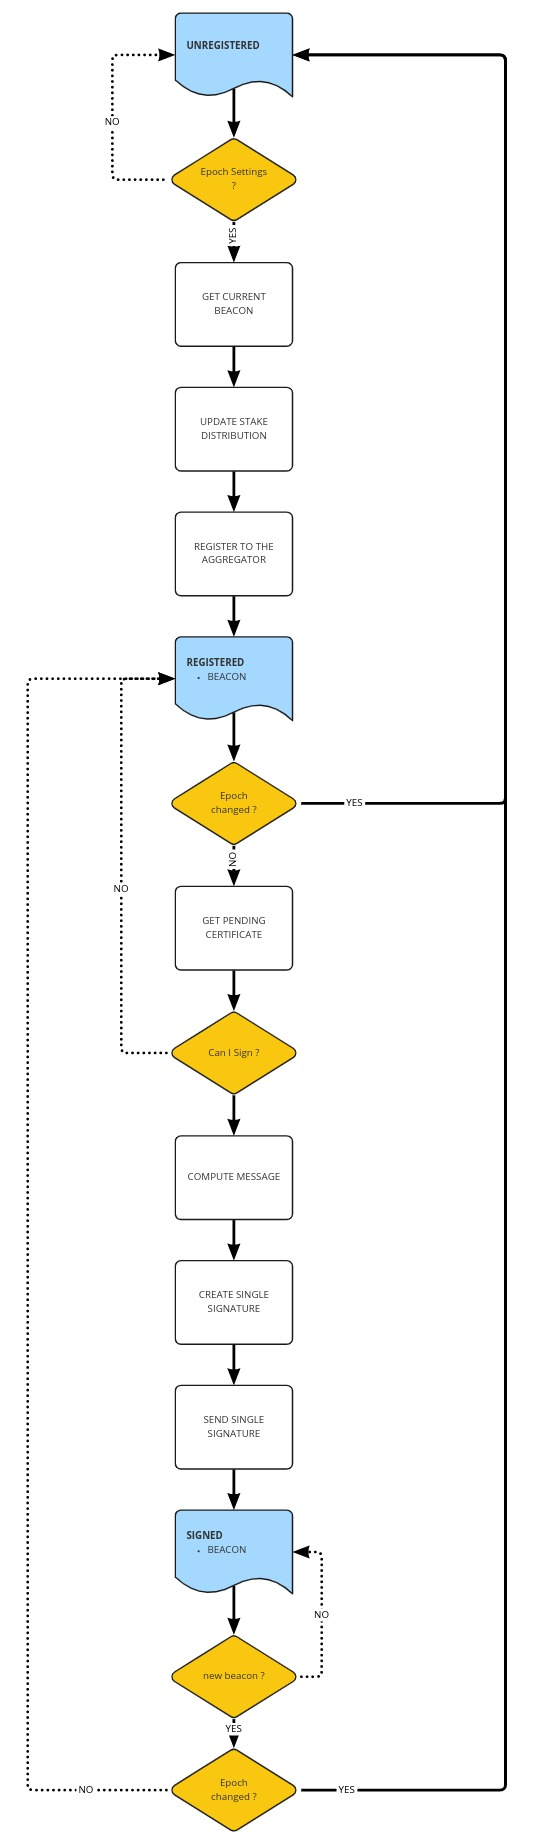
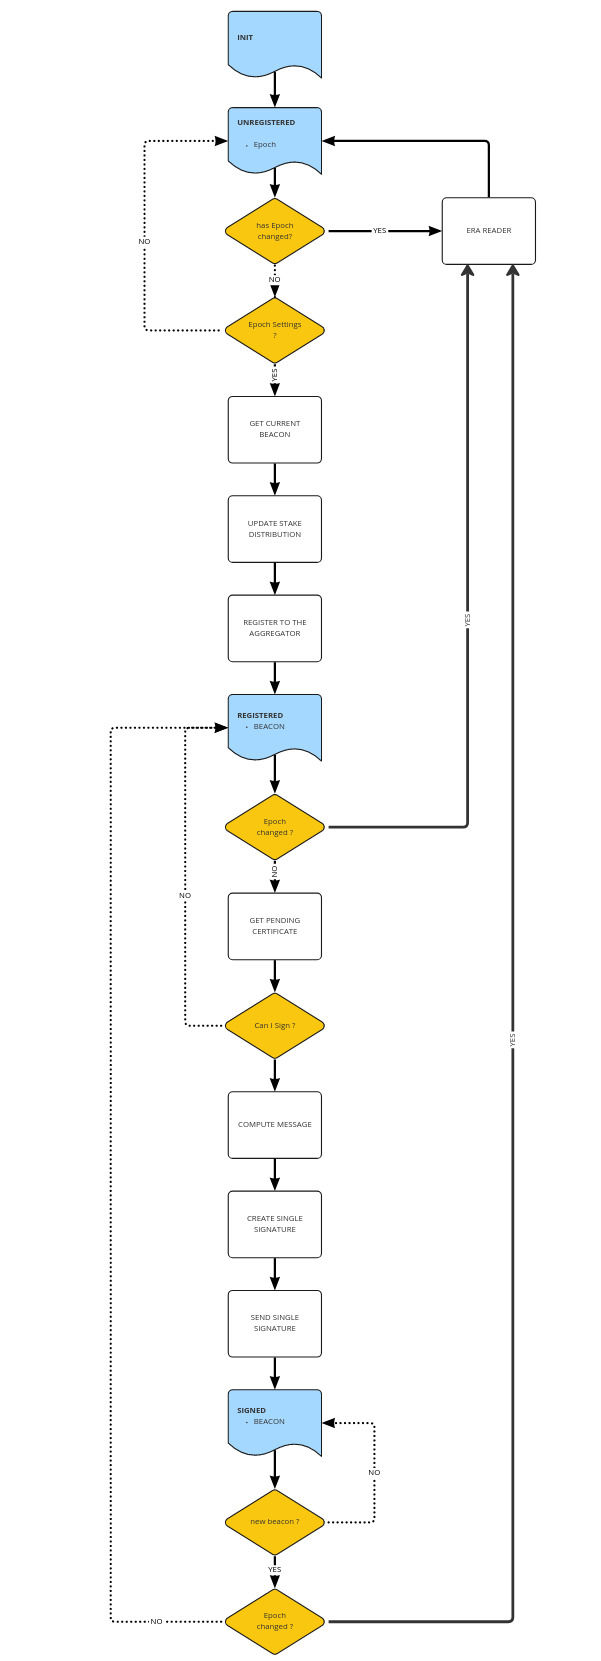
update documentation

diff --git a/mithril-signer/src/runtime/state_machine.rs b/mithril-signer/src/runtime/state_machine.rs
@@ -13,19 +13,19 @@ pub enum SignerState {
     /// Hold the latest known epoch in order to help synchronisation
     /// with the aggregator
     Unregistered {
-        /// Unregistered state may know its epoch (None at startup). The given
-        /// epoch corresponds to the previous epoch in order to be able to
-        /// register stake distribution.
+        /// Current Epoch
         epoch: Epoch,
     },
 
-    /// `Registered` state
+    /// `Registered` state. The Signer has successfuly registered against the
+    /// Aggregator for this Epoch, it is now able to sign.
     Registered {
         /// Beacon when Signer may sign.
         beacon: Beacon,
     },
 
-    /// `Signed` state
+    /// `Signed` state. The Signer has signed the immutable files for the
+    /// current Beacon.
     Signed {
         /// Beacon when Signer signed.
         beacon: Beacon,

diff --git a/mithril-common/src/era/era_reader.rs b/mithril-common/src/era/era_reader.rs
@@ -87,7 +87,7 @@ impl EraEpochToken {
 }
 
 /// The EraReader is responsible of giving the current Era and the Era to come.
-/// Is uses an [EraReaderAdapter] to read data from a backend.
+/// It uses an [EraReaderAdapter] to read data from a backend.
 pub struct EraReader {
     adapter: Box<dyn EraReaderAdapter>,
 }
@@ -105,8 +105,7 @@ pub enum EraReaderError {
         error: Box<dyn StdError + Sync + Send>,
     },
 
-    /// Data returned from the adapter are inconsistent or incomplete preventing
-    /// the determined the current [EraMarker].
+    /// Data returned from the adapter are inconsistent or incomplete.
     #[error("Current Era could not be determined with data from the adapter.")]
     CurrentEraNotFound,
 }

diff --git a/mithril-common/src/era/supported_era.rs b/mithril-common/src/era/supported_era.rs
@@ -20,7 +20,7 @@ impl SupportedEra {
 
 /// Error related to [SupportedEra] String parsing implementation.
 #[derive(Error, Debug)]
-#[error("Unable to transform era '{0}' into a currently supported era ('thales').")]
+#[error("Unable to transform era '{0}' into a currently supported era.")]
 pub struct UnsupportedEraError(String);
 
 impl FromStr for SupportedEra {
